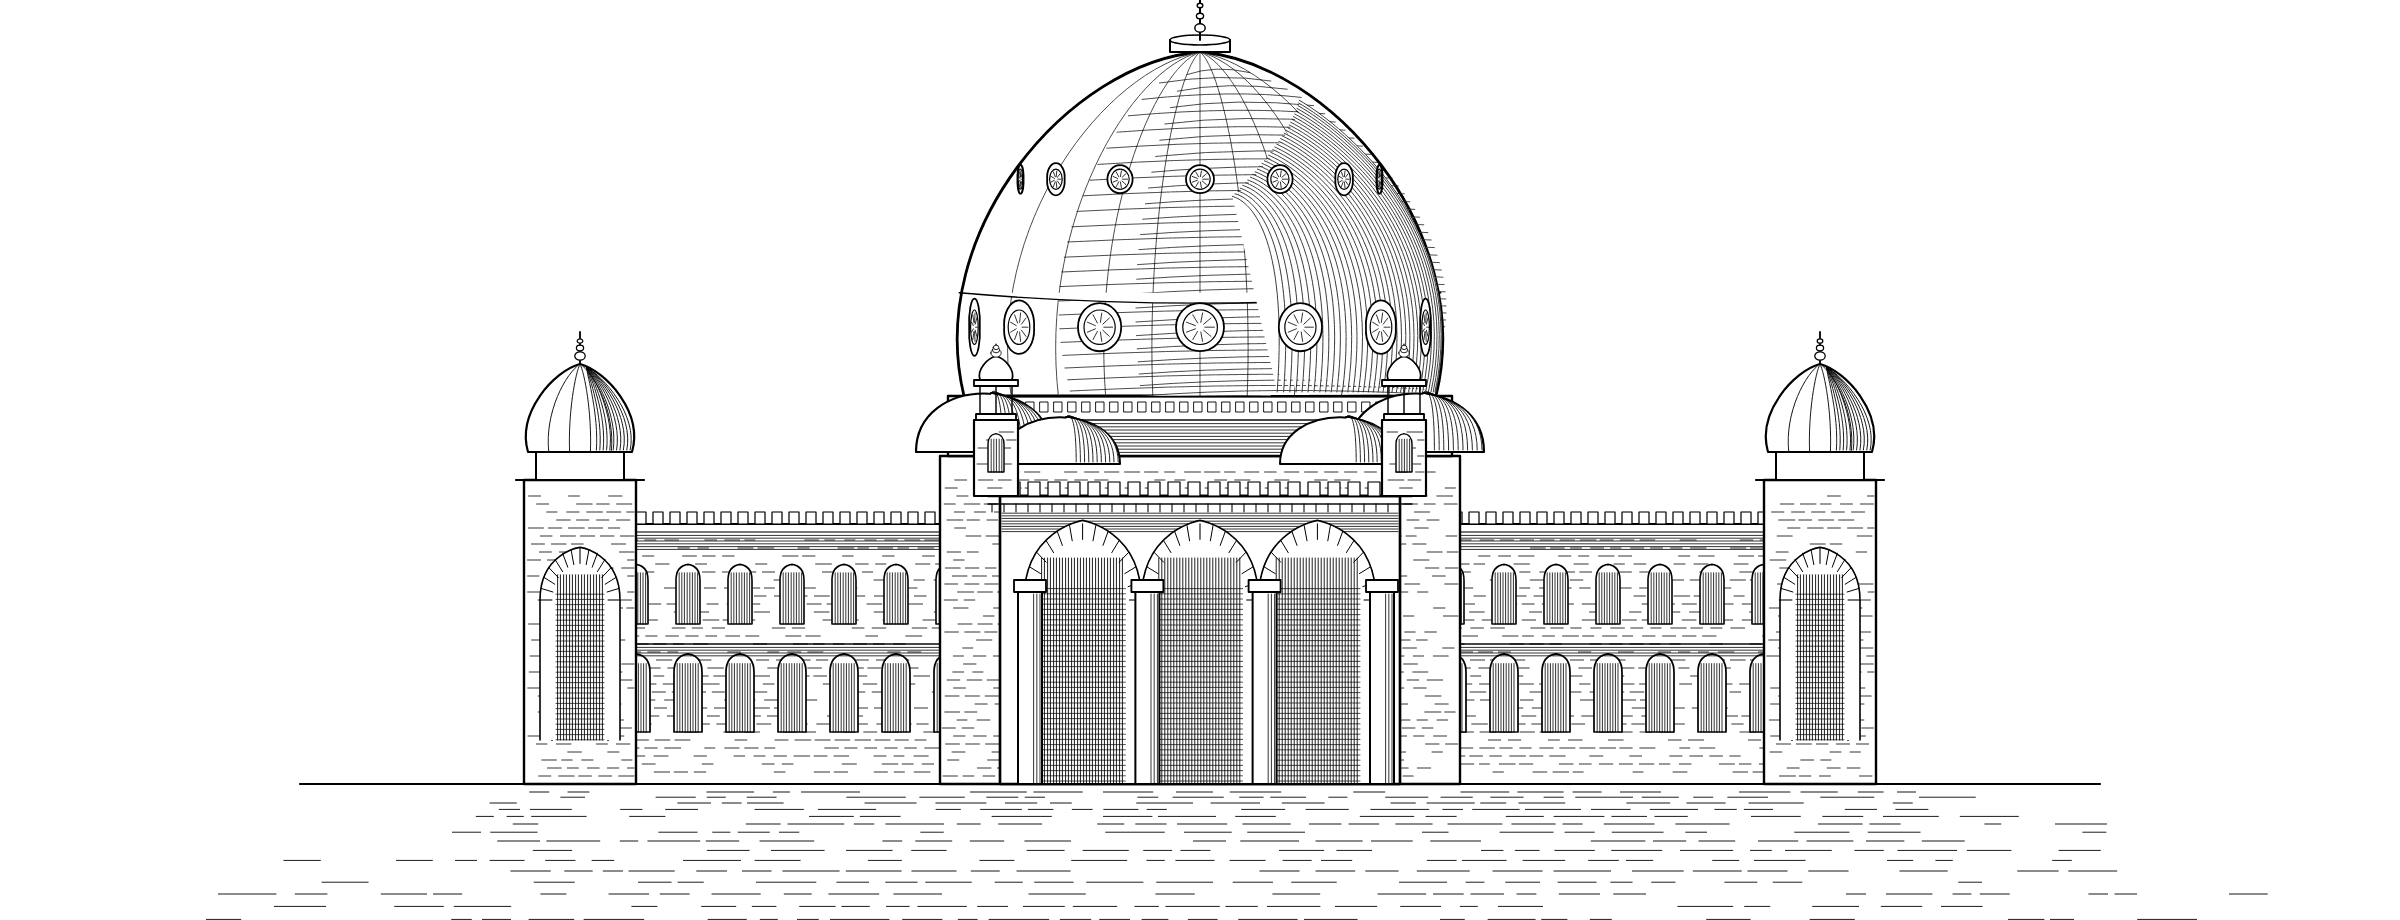
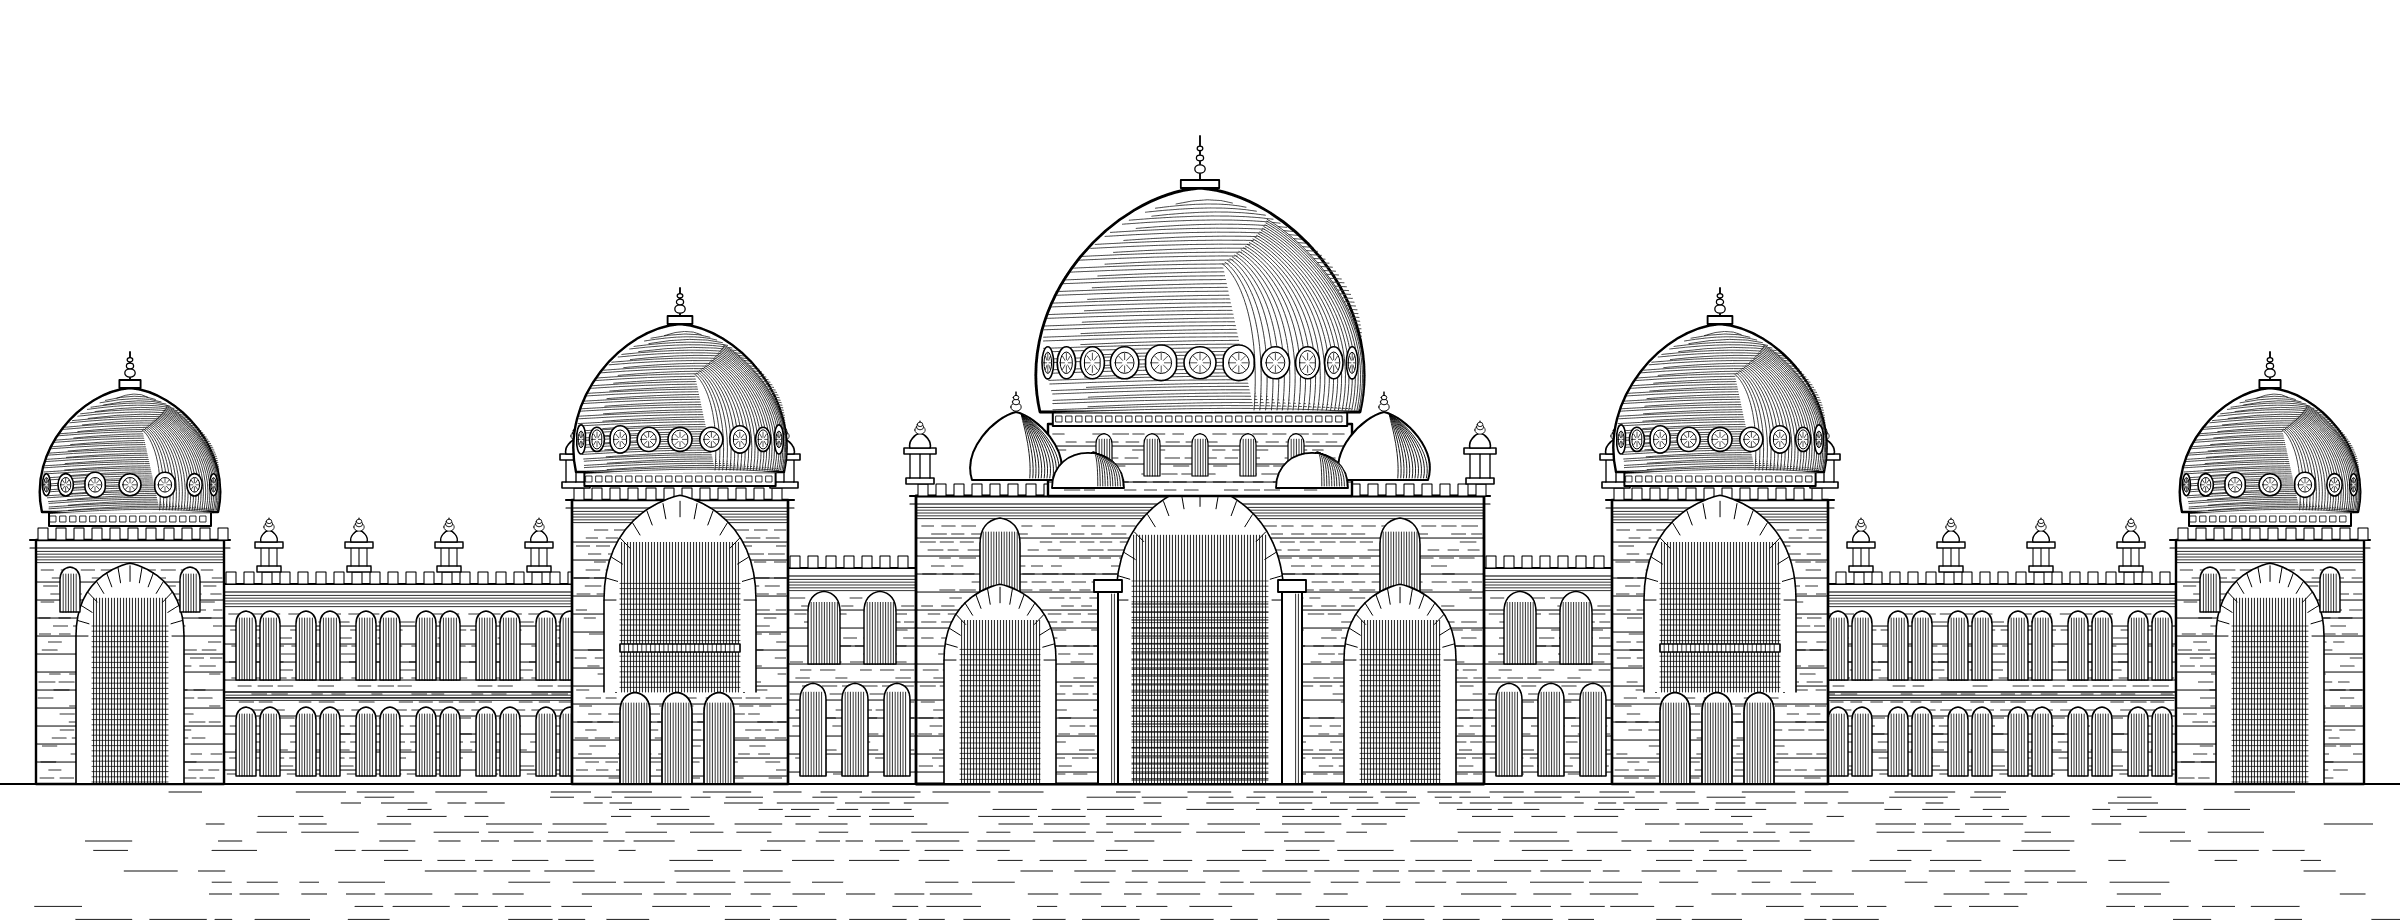
Vadodara footer: redraw the Faculty of Arts from the front, all five domes
Claude-Session: https://claude.ai/code/session_01T2xkTaQvJ7XW7aHGJUvQim

diff --git a/site/app/page.tsx b/site/app/page.tsx
@@ -58,7 +58,7 @@ export default function Home() {
 
       <footer className="foot">
         {/* Home: Vadodara in ink, the great dome of the MS University Faculty of Arts among the campus trees */}
-<div className="city" role="img" aria-label="Vadodara, Gujarat: the dome of the Faculty of Arts, MS University, among trees" />
+<div className="city" role="img" aria-label="Vadodara, Gujarat: the five-domed Faculty of Arts, MS University" />
         <span className="mono">© {new Date().getFullYear()} {profile.name}</span>
       </footer>
     </main>

diff --git a/site/scripts/vadodara.py b/site/scripts/vadodara.py
@@ -139,129 +139,162 @@ def pavilion(cx, base, r, h=14, w=.9):
     finial(cx, top - 3 - r * 1.5, 6, .6)
 
 
-# ------------------------------------------------------------------ the Faculty of Arts
+# ------------------------------------------------------------------ the Faculty of Arts, front elevation
+# Five domes ringed with rosettes: the great one over the centre, one on each tower block, one at each end.
 CX = 600
 
-# side wings, two storeys of arched windows in brick
-for wl, wr in ((300, 492), (708, 900)):
-    rect(wl, 262, wr - wl, GROUND - 262, 1.1)
-    line(wl - 3, 262, wr + 3, 262, 1.1)
-    line(wl - 3, 266, wr + 3, 266, .6)
-    x = wl
-    while x < wr - 4:                     # parapet merlons
-        rect(x + 1, 256, 5, 6, .6)
-        x += 8.5
-    bricks(wl + 1, wr - 1, 268, GROUND - 2)
-    for x0 in range(wl + 12, wr - 16, 26):
-        small_arch(x0, 290, 12, 22, .8)
-        small_arch(x0 - 1, 336, 14, 30, .85)
-    line(wl, 322, wr, 322, .8)
-    hhatch(wl + 1, wr - 1, 267, 276, 1.4, .4)
-    hhatch(wl + 1, wr - 1, 323, 329, 1.4, .4)
-    # the far end of each wing steps forward with a gabled bay and a dome
-ends = ((262, 318), (882, 938))
-for el, er in ends:
-    rect(el, 240, er - el, GROUND - 240, 1.2)
-    line(el - 4, 240, er + 4, 240, 1.1)
-    bricks(el + 1, er - 1, 246, GROUND - 2)
-    big_arch(el + 14, 300, er - el - 28, 70, .9)
-    rect(el + 6, 226, er - el - 12, 14, 1.0)
-    onion((el + er) / 2, 226, 26, 44, 1.1, ribs=4)
-    finial((el + er) / 2, 182, 16, .9)
 
-# central block behind the portico, carrying the drum and dome
-rect(470, 228, 260, GROUND - 228, 1.2)
-bricks(471, 729, 234, GROUND - 2)
-
-# the great dome: drum, two rings of rosette windows, faint ribs, lantern and chakra
-DB, DR, DH = 198, 118, 172          # base y, half width, height
-rect(CX - DR - 8, DB, 2 * DR + 16, 228 - DB, 1.2)          # drum
-for x in range(int(CX - DR - 4), int(CX + DR + 6), 7):
-    rect(x, DB + 3, 4, 5, .45)                               # dentils
-line(CX - DR - 10, DB + 12, CX + DR + 10, DB + 12, .7)
-hhatch(CX - DR - 8, CX + DR + 8, DB + 13, 228, 1.6, .4)
-add(f"M{f(CX - DR)} {f(DB)}C{f(CX - DR * 1.17)} {f(DB - DH * .48)} {f(CX - DR * .55)} {f(DB - DH * .97)} {f(CX)} {f(DB - DH)}"
-    f"C{f(CX + DR * .55)} {f(DB - DH * .97)} {f(CX + DR * 1.17)} {f(DB - DH * .48)} {f(CX + DR)} {f(DB)}Z", 1.4, True)
-# ribs (meridians), lighter on the lit side
-for k in range(-4, 5):
-    t = k / 5
-    add(f"M{f(CX + DR * t)} {f(DB)}C{f(CX + DR * 1.14 * t)} {f(DB - DH * .5)} {f(CX + DR * .5 * t)} {f(DB - DH * .95)} {f(CX)} {f(DB - DH)}", .35)
-# latitude hatching: each band follows the dome's curve, closer together lower down and on the right
-for k in range(1, 46):
-    t = k / 46
-    yb = DB - DH * (t ** 1.15) * .97
-    # half width of the dome at this height (sampled from the outline's shape)
-    u = 1 - t
-    half = DR * (1.0 + .17 * math.sin(math.pi * min(1, u * 1.05)) ) * math.sqrt(max(0, 1 - t ** 2.2))
-    x0 = CX - half * (.25 if k % 2 else .55)
-    add(f"M{f(x0)} {f(yb + 2)}Q{f(CX + half * .3)} {f(yb - 3)} {f(CX + half * .96)} {f(yb + 1)}", .35)
-# the horizontal seam a third of the way up
-add(f"M{f(CX - DR * 1.02)} {f(DB - DH * .3)}Q{f(CX)} {f(DB - DH * .24)} {f(CX + DR * 1.02)} {f(DB - DH * .3)}", .7)
-# engraved shade on the right flank
-for k in range(0, 36):
-    t = 1 - (k / 36) ** 1.4 * .7
-    add(f"M{f(CX + DR * t)} {f(DB - 2)}C{f(CX + DR * 1.15 * t)} {f(DB - DH * .48)} {f(CX + DR * .62 * t)} {f(DB - DH * (.78 - k * .006))} {f(CX + DR * .42 * t)} {f(DB - DH * (.86 - k * .008))}", .38)
+def band_wall(x1, x2, y1, y2):
+    """Striped brick: a light course line every few rows over coursed brick."""
+    bricks(x1 + 1, x2 - 1, y1 + 1, y2 - 1)
+    y = y1 + 9
+    while y < y2 - 2:
+        line(x1, y, x2, y, .5)
+        y += 9
 
 
-def rosettes(y, rx_max, count, size):
-    for k in range(count):
-        th = (k - (count - 1) / 2) * (math.pi * .78 / (count - 1)) * 2 * .55
-        x = CX + rx_max * math.sin(th)
-        sx = size * math.cos(th)                             # foreshortened toward the edges
-        ellipse(x, y, sx, size, .9)
-        ellipse(x, y, sx * .72, size * .72, .6)
-        for a in range(0, 360, 40):
+def dome(cx, base, r, h, n=9, size=6.5, w=1.2, finial_h=14):
+    """Bulbous dome on a short drum, a ring of rosette windows low on its face, latitude shading on the right."""
+    rect(cx - r * .92, base, r * 1.84, 7, 1.0)                       # drum
+    for x in range(int(cx - r * .9), int(cx + r * .9), 5):
+        rect(x, base + 2, 3, 3, .4)
+    add(f"M{f(cx - r)} {f(base)}C{f(cx - r * 1.16)} {f(base - h * .5)} {f(cx - r * .55)} {f(base - h * .97)} {f(cx)} {f(base - h)}"
+        f"C{f(cx + r * .55)} {f(base - h * .97)} {f(cx + r * 1.16)} {f(base - h * .5)} {f(cx + r)} {f(base)}Z", w, True)
+    # latitude bands, tighter toward the bottom
+    for k in range(1, 58):
+        t = (k / 58) ** 1.1
+        yb = base - h * t * .96
+        half = r * (1 + .14 * math.sin(math.pi * min(1, (1 - t) * 1.1))) * math.sqrt(max(0, 1 - t ** 2.4))
+        x0 = cx - half * (.92 if k % 3 else .7)
+        add(f"M{f(x0)} {f(yb + 1.5)}Q{f(cx + half * .3)} {f(yb - 2.5)} {f(cx + half * .95)} {f(yb + 1)}", .35)
+    # shade on the right flank
+    for k in range(0, 26):
+        t = 1 - (k / 26) ** 1.4 * .7
+        add(f"M{f(cx + r * t)} {f(base - 1)}C{f(cx + r * 1.14 * t)} {f(base - h * .45)} {f(cx + r * .62 * t)} {f(base - h * (.78 - k * .006))} {f(cx + r * .42 * t)} {f(base - h * (.86 - k * .008))}", .38)
+    # rosette ring
+    for k in range(n):
+        th = (k - (n - 1) / 2) / ((n - 1) / 2) * 1.2
+        x = cx + r * 1.02 * math.sin(th)
+        sx = size * max(.25, math.cos(th))
+        y = base - h * .22
+        ellipse(x, y, sx, size, .8)
+        ellipse(x, y, sx * .66, size * .66, .5)
+        for a in range(0, 360, 45):
             ra = math.radians(a)
-            line(x + math.cos(ra) * sx * .2, y + math.sin(ra) * size * .2, x + math.cos(ra) * sx * .6, y + math.sin(ra) * size * .6, .4)
+            line(x + math.cos(ra) * sx * .2, y + math.sin(ra) * size * .2, x + math.cos(ra) * sx * .6, y + math.sin(ra) * size * .6, .35)
+    rect(cx - r * .12, base - h - 4, r * .24, 4, .9)
+    finial(cx, base - h - 4, finial_h, .9)
 
 
-rosettes(DB - DH * .2, DR * .98, 7, 12)
-rosettes(DB - DH * .63, DR * .78, 7, 7)
-# lantern collar and the chakra finial
-rect(CX - 15, DB - DH - 6, 30, 6, 1.0)
-ellipse(CX, DB - DH - 6, 15, 2.5, .8)
-finial(CX, DB - DH - 6, 24, 1.0, wheel=True)
+def parapet(x1, x2, top, every=0):
+    line(x1 - 3, top, x2 + 3, top, 1.1)
+    line(x1 - 3, top + 4, x2 + 3, top + 4, .6)
+    hhatch(x1, x2, top + 5, top + 12, 1.4, .4)          # shadow under the cornice
+    x = x1
+    while x < x2 - 3:
+        rect(x + 1, top - 6, 5, 6, .55)
+        x += 9
+    if every:
+        x = x1 + every / 2
+        while x < x2:
+            pavilion(x, top - 6, 4, 9, .7)
+            x += every
 
-# four little half domes clustered on the drum's shoulders
-for hx in (CX - 108, CX + 108):
-    hemi(hx, 226, 34, 30, 1.1)
-for hx in (CX - 70, CX + 70):
-    hemi(hx, 232, 30, 24, 1.0)
 
-# the portico: three great arches with a bracketed cornice and corner pavilions
-PL, PR, PT = 500, 700, 248
-rect(PL, PT, PR - PL, GROUND - PT, 1.3)
-line(PL - 6, PT, PR + 6, PT, 1.2)
-line(PL - 6, PT + 4, PR + 6, PT + 4, .7)
-hhatch(PL + 1, PR - 1, PT + 8, PT + 18, 1.3, .4)
-for x in range(PL - 4, PR + 6, 6):           # brackets under the cornice
-    line(x, PT + 4, x, PT + 8, .5)
-x = PL - 6
-while x < PR + 2:                             # crenellated parapet
-    rect(x, PT - 7, 6, 7, .6)
-    x += 10
-bay = (PR - PL - 24) / 3
-for k in range(3):
-    ax = PL + 12 + k * (bay + 0) + 6
-    big_arch(ax, 300, bay - 12, GROUND - 300, 1.1)
-# columns with capitals between the arches
-for k in range(4):
-    cx = PL + 12 + k * bay + 3
-    rect(cx - 6, 296, 12, GROUND - 296, 1.0)
-    rect(cx - 8, 290, 16, 6, .9)
-    vhatch(cx + 1, cx + 6, 297, GROUND, 1.6, .4)
-for px in (PL - 2, PR + 2):
-    rect(px - 11, 210, 22, PT - 210, 1.1)
-    bricks(px - 10, px + 10, 214, PT)
-    small_arch(px - 4, 222, 8, 14, .7)
-    pavilion(px, 210, 8, 14, .9)
+def arcade(x1, x2, y1, y2, bay=24, pair=True):
+    """A row of arched openings on slim columns."""
+    x = x1 + 6
+    while x + bay - 8 <= x2:
+        if pair:
+            small_arch(x, y1 + 8, (bay - 10) / 2, y2 - y1 - 8, .75)
+            small_arch(x + (bay - 10) / 2 + 2, y1 + 8, (bay - 10) / 2, y2 - y1 - 8, .75)
+        else:
+            small_arch(x, y1 + 8, bay - 8, y2 - y1 - 8, .8)
+        x += bay
+
+
+# outer wings: two storeys of paired arches under a pinnacled parapet
+for wl, wr in ((112, 292), (908, 1088)):
+    rect(wl, 292, wr - wl, GROUND - 292, 1.1)
+    band_wall(wl, wr, 304, GROUND)
+    parapet(wl, wr, 292, every=45)
+    arcade(wl, wr, 304, 340, 30)
+    line(wl, 346, wr, 346, .8)
+    hhatch(wl + 1, wr - 1, 347, 351, 1.3, .4)
+    arcade(wl, wr, 352, GROUND - 4, 30)
+
+# end blocks with the outer domes
+for bx in (18, 1088):
+    rect(bx, 270, 94, GROUND - 270, 1.2)
+    band_wall(bx, bx + 94, 282, GROUND)
+    parapet(bx, bx + 94, 270)
+    big_arch(bx + 26, 318, 42, GROUND - 318, .9)
+    small_arch(bx + 12, 290, 10, 16, .7)
+    small_arch(bx + 72, 290, 10, 16, .7)
+    dome(bx + 47, 256, 44, 62, n=7, size=5.5)
+
+# low links between the towers and the centre
+for lx in (394, 742):
+    rect(lx, 284, 64, GROUND - 284, 1.0)
+    band_wall(lx, lx + 64, 296, GROUND)
+    parapet(lx, lx + 64, 284)
+    small_arch(lx + 10, 306, 16, 26, .75)
+    small_arch(lx + 38, 306, 16, 26, .75)
+    arcade(lx, lx + 64, 342, GROUND - 4, 21, pair=False)
+
+# tower blocks: a great arched recess with balconies, crowned by a dome
+for tx in (286, 806):
+    TW = 108
+    rect(tx, 250, TW, GROUND - 250, 1.3)
+    band_wall(tx, tx + TW, 262, GROUND)
+    parapet(tx, tx + TW, 250)
+    for px in (tx + 2, tx + TW - 2):
+        pavilion(px, 244, 5, 11, .8)
+    big_arch(tx + 22, 300, TW - 44, 46, 1.0)
+    rect(tx + 24, 322, TW - 48, 4, .8)                    # balcony rail
+    vhatch(tx + 25, tx + TW - 25, 322, 326, 2.2, .4)
+    for k in range(3):
+        small_arch(tx + 24 + k * 21, 356, 15, GROUND - 356, .85)
+    dome(tx + TW / 2, 236, 52, 74, n=9, size=6)
+
+# the centre: tallest block, three arches under peaked frames, small domes at its shoulders
+CL, CR = 458, 742
+rect(CL, 248, CR - CL, GROUND - 248, 1.4)
+band_wall(CL, CR, 260, GROUND)
+parapet(CL, CR, 248)
+for px in (CL + 2, CR - 2):
+    pavilion(px, 242, 5, 12, .8)
+# side bays: window over a smaller arch
+for bx in (CL + 14, CR - 70):
+    small_arch(bx + 18, 272, 20, 26, .8)
+    big_arch(bx + 6, 330, 44, GROUND - 330, 1.0)
+# the great central arch with its tall grille
+big_arch(CX - 36, 300, 72, GROUND - 300, 1.3)
+hhatch(CX - 34, CX + 34, 300, GROUND, 4, .45)
+# columns between the bays
+for cx in (CX - 46, CX + 46):
+    rect(cx - 5, 296, 10, GROUND - 296, 1.0)
+    rect(cx - 7, 290, 14, 6, .9)
+    vhatch(cx + 1, cx + 5, 297, GROUND, 1.5, .4)
+# the great dome on its tall drum, which rises behind the shoulder domes
+rect(CX - 76, 212, 152, 36, 1.2)
+band_wall(CX - 76, CX + 76, 214, 248)
+for k in range(5):
+    small_arch(CX - 52 + k * 24, 222, 8, 16, .6)
+dome(CX, 206, 80, 112, n=11, size=8, w=1.4, finial_h=22)
+# shoulder domes and domelets
+for hx in (CX - 92, CX + 92):
+    onion(hx, 240, 22, 34, 1.0)
+    finial(hx, 206, 10, .7)
+for hx in (CX - 56, CX + 56):
+    hemi(hx, 244, 18, 18, .9)
 
 # ------------------------------------------------------------------ the lawn
-line(150, GROUND, W - 150, GROUND, 1.1)
+line(0, GROUND, W, GROUND, 1.1)
 y, row = GROUND + 4, 0
 while y < H:
     # the lawn widens a little toward the viewer and frays out at its ends
-    spread = 440 + row * 9
+    spread = 560 + row * 6
     x = CX - spread + rnd.uniform(-20, 0)
     while x < CX + spread:
         seg = rnd.uniform(8, 30)
